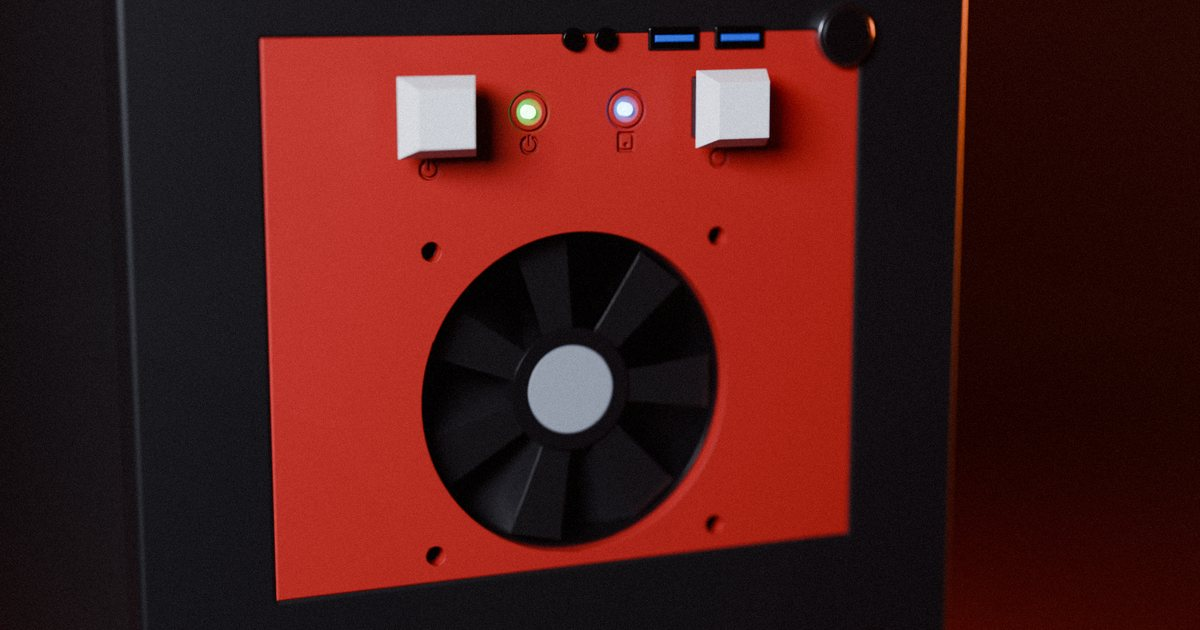
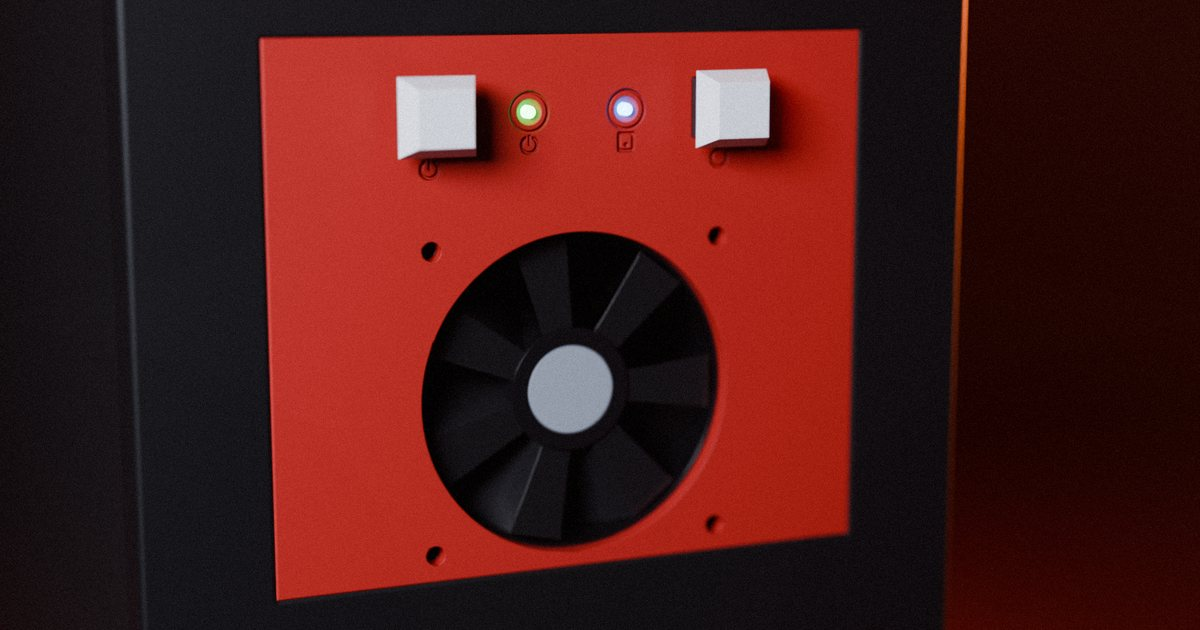
3D view: the case's front I/O never sits on the printed front
Above the front when there is room, else on the roof. Gallery renders redone without the overlaps.

Changed region(s): [[0.4625, 0.0302, 0.6475, 0.0905], [0.6783, 0.0302, 0.74, 0.1206]]

diff --git a/web/src/scene.js b/web/src/scene.js
@@ -372,7 +372,21 @@ export function buildCase(c) {
   }
   // Define-style cases: the front door comes off to use the rack, only its hinge pins stay
   if (st.front === 'door') for (const zh of [z0 + 60, z1 - 60]) front.add(cyl(-w / 2 + 4, -fd - 2, zh, 2.2, 14, MAT.zinc(), 'z'));
-  if (!st.sleeper) frontIO(front, w / 2 - 34, -fd, z1 - 24, st.body < 0x808080);
+  if (!st.sleeper) {
+    // the front I/O strip (power key, USB, jacks: x from xr - 77 to xr + 8, 15 mm tall) must not sit on the
+    // printed front: above it when there is room, else on the roof, like a top-I/O tower
+    const xr = w / 2 - 34, [ox0, ox1, oz0, oz1] = c.open;
+    const hits = (z) => xr - 77 < ox1 + 4 && xr + 8 > ox0 - 4 && z - 8 < oz1 + 4 && z + 8 > oz0 - 4;
+    let z = z1 - 24;
+    if (hits(z)) z = oz1 + 14;
+    if (!hits(z) && z + 8 <= z1 - 6) frontIO(front, xr, -fd, z, st.body < 0x808080);
+    else {
+      const top = part(root, 'top_io');
+      frontIO(top, xr, 0, 0, st.body < 0x808080);
+      top.rotation.x = -Math.PI / 2;           // the strip faces up, near the front edge of the roof
+      top.position.set(0, 40, z1);
+    }
+  }
   // a sleeper hides a modern server: draw it even without a window (the video takes the side panel off)
   if (st.window || st.sleeper) interior(root, c, winSide > 0 ? -w / 2 + t : w / 2 - t);
   if (st.sleeper && c.nic !== 3) lowProfileGPU(root, px0, pl, slotZ(3), d);

diff --git a/CHANGELOG.md b/CHANGELOG.md
@@ -10,6 +10,8 @@ on the photos and in the MakerWorld notes.
   sleeper in a living room, an Antec Three Hundred backlit, an Obsidian 750D as a white product shot and late sun
   on a green bezel build. `scripts/blender/gallery.py` renders them from GLBs exported by the web viewer,
   `gallery_encode.py` makes the site's sizes.
+- 3D view: the case's front I/O (power key, USB) no longer sits on a printed front that reaches it: it moves
+  above the front, or onto the roof when there is no room (a panel-only front, a tall rack in a short case).
 - Web generator: "What you can put in it" and "Example builds" are one section, "What you can build": each card is a
   build with what it is for and what to buy, and loads it. The row drags with the mouse like a swipe (touch already
   swipes), settles on a card and hides its scrollbar.
